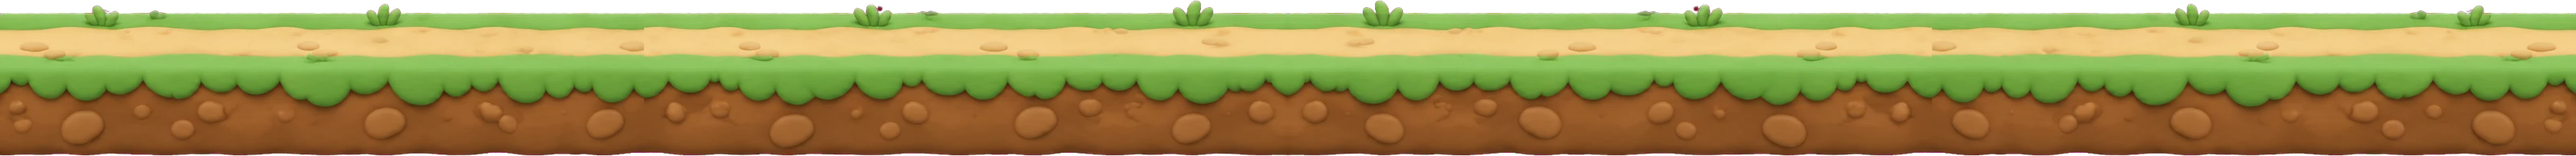
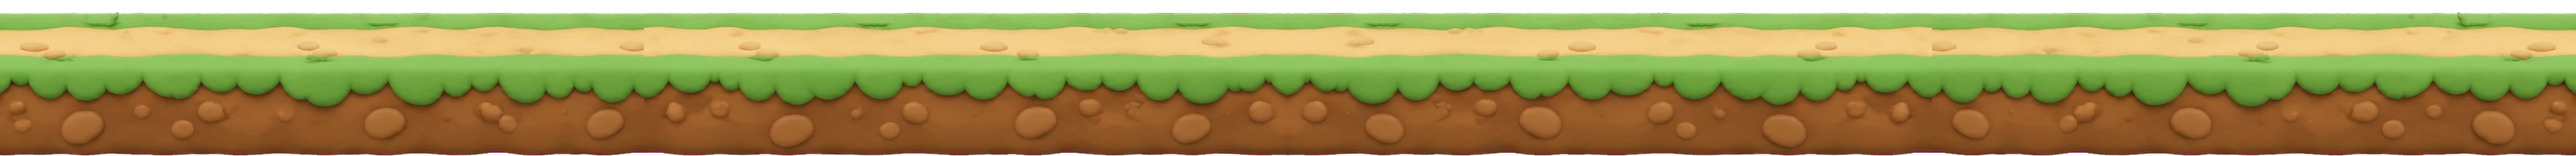
Mejora del valle 0.29.5

diff --git a/src/world.js b/src/world.js
@@ -1,4 +1,4 @@
-// El Valle de Eko (fase 1): su casa por fuera, el camino, el cielo real y la niebla de lo que aún no está abierto.
+// El Valle de Eko: su casa por fuera, el camino, el huerto, el cielo real y la niebla de lo que aún no está abierto.
 // Vista lateral a pantalla completa. Haces clic y Eko va; él comenta el paisaje. Esc o «Volver a casa» para salir.
 (() => {
   "use strict";
@@ -16,9 +16,9 @@
   let W = innerWidth, H = innerHeight, k = H / 1080;
   const G = () => 300 * k;                                  // alto del suelo
   const groundTop = () => H - G();
-  const PATH = () => groundTop() + G() * 0.25;              // donde pisa Eko (el camino de tierra)
-  const BACK = () => groundTop() + G() * 0.12;              // base de lo que está detrás del camino
-  const FRONT = () => groundTop() + G() * 0.52;             // base de lo que está delante
+  const PATH = () => groundTop() + G() * 0.27;              // donde pisa Eko (el camino de tierra)
+  const BACK = () => groundTop() + G() * 0.14;              // base de lo que está detrás del camino
+  const FRONT = () => groundTop() + G() * 0.42;             // base de lo que está delante
   const OPEN = { x0: 140, x1: 2050 };                       // zona abierta en la fase 1 (en «unidades de 1080p»)
   const WORLD = 2600;
   const U = (u) => u * k;                                   // unidades → px
@@ -59,7 +59,7 @@
     (layer === "front" ? front : back).appendChild(el);
     const p = { el, src, ux, uh, ar: o.ar || 1, base, o };
     props.push(p);
-    if (o.click) el.addEventListener("click", (e) => { e.stopPropagation(); o.click(p); });
+    if (o.click) el.addEventListener("click", (e) => { e.stopPropagation(); o.click(p, e); });
     return p;
   }
   // casa (1102×971); la puerta está un 18 % a la izquierda del centro
@@ -69,13 +69,97 @@
   for (const [gx, gy, gs] of GLOWS) { const g = document.createElement("div"); g.className = "glow"; g.dataset.g = [gx, gy, gs]; house.el.appendChild(g); }
   prop("tree.webp", 280, 360, "back", "back", { ar: 736 / 800, sway: true, click: () => goTo(330, () => say(pick(["Este árbol es mi favorito", "Aquí da una sombrita estupenda", "Algún día le pondré un columpio"]))) });
   prop("bush.webp", 560, 120, "back", "back", { ar: 786 / 710, click: () => goTo(560, () => say(pick(["¡Qué florecitas!", "Huele a primavera", "Las flores lilas son las mejores"]))) });
-  prop("fence.webp", 1300, 90, "back", "back", { ar: 900 / 338 });
-  prop("bush.webp", 1560, 100, "back", "back", { ar: 786 / 710 });
-  prop("tree.webp", 1820, 400, "back", "back", { ar: 736 / 800, sway: true, click: () => goTo(1780, () => say(pick(["Desde aquí se ve todo el valle", "Este árbol es muy viejo… y muy sabio"]))) });
-  const lamps = [prop("lamp.webp", 420, 260, "front", "front", { ar: 162 / 800 }), prop("lamp.webp", 1460, 260, "front", "front", { ar: 162 / 800 })];
+  prop("fence.webp", 1260, 90, "back", "back", { ar: 900 / 338 });
+  prop("tree.webp", 1910, 400, "back", "back", { ar: 736 / 800, sway: true, click: () => goTo(1860, () => say(pick(["Desde aquí se ve todo el valle", "Este árbol es muy viejo… y muy sabio"]))) });
+  const lamps = [prop("lamp.webp", 420, 260, "front", "front", { ar: 162 / 800 }), prop("lamp.webp", 1430, 260, "front", "front", { ar: 162 / 800 })];
   for (const l of lamps) { const g = document.createElement("div"); g.className = "glow"; g.dataset.g = [0.54, 0.17, 120]; l.el.appendChild(g); l.el.addEventListener("click", (e) => { e.stopPropagation(); goTo(l.ux + 40, () => say(phase() === "night" ? "De noche se encienden solas" : "Por la noche esto brilla muchísimo")); }); }
   const sign = prop("sign.webp", 1180, 240, "front", "front", { ar: 379 / 700, click: () => goTo(1140, () => say(`«El Valle de ${name}». ¡Bienvenido a mi valle!`)) });
   const st = document.createElement("div"); st.id = "signText"; st.textContent = `El Valle\nde ${name}`; st.style.whiteSpace = "pre"; sign.el.appendChild(st);
+
+  // ---------- Huerto (fase 2): plantar, regar y cosechar en tiempo real ----------
+  const testMode = (() => { try { return !!JSON.parse(localStorage.getItem("eko-settings") || "{}").testAll; } catch (_) { return false; } })();
+  const GROW = testMode ? 20e3 : 3 * 3600e3;                 // tiempo mínimo entre fases (regada)
+  let GD = { slots: [null, null, null], hv: { carrot: 0, tomato: 0 } };
+  try { GD = Object.assign(GD, JSON.parse(localStorage.getItem("eko-garden") || "{}")); } catch (_) {}
+  const gSave = () => { try { localStorage.setItem("eko-garden", JSON.stringify(GD)); } catch (_) {} };
+  const BED = { ux: 1640, uh: 66, ar: 1000 / 202 };
+  const bed = prop("g-bed.webp", BED.ux, BED.uh, "back", "back", { ar: BED.ar, click: (p, e) => slotAt(e) });
+  const can = prop("g-can.webp", 1690, 58, "front", "front", { ar: 500 / 265, click: () => waterNext() });
+  prop("g-seeds.webp", 1770, 82, "front", "front", { ar: 436 / 500, click: () => plantNext() });
+  const SX = [0.2, 0.5, 0.8];                                 // huecos del bancal (fracción del ancho)
+  const ART = { 0: ["g-sprout.webp", 347 / 400, 70], 1: ["g-young.webp", 500 / 475, 100], carrot: ["g-carrotplant.webp", 461 / 500, 125], tomato: ["g-tomato.webp", 447 / 600, 170] };
+  const plants = SX.map((fx, i) => { const d = document.createElement("div"); d.className = "plant"; d.innerHTML = `<img alt="" draggable="false"><b class="thirst"></b>`; d.addEventListener("click", (e) => { e.stopPropagation(); act(i); }); back.appendChild(d); return d; });
+  const slotX = (i) => BED.ux + (SX[i] - 0.5) * BED.uh * BED.ar;
+  const stage = (s) => (s.st >= 2 ? s.c : s.st);
+  const thirsty = (s) => s.st < 2 && !(s.wet > s.since);
+  function grow() {
+    const now = Date.now(); let ch = false;
+    for (const s of GD.slots) if (s && s.st < 2 && s.wet > s.since && now - s.since >= GROW) { s.st++; s.since = now; ch = true; }
+    if (ch) gSave();
+    drawPlants();
+  }
+  function drawPlants() {
+    plants.forEach((d, i) => {
+      const s = GD.slots[i]; d.style.display = s ? "" : "none"; if (!s) return;
+      const [src, ar, uh] = ART[stage(s)], img = d.firstChild;
+      if (!img.src.endsWith(src)) img.src = "art/valley/" + src;
+      d.dataset.ar = ar; d.dataset.uh = uh; d.classList.toggle("dry", thirsty(s));
+    });
+    gLayout();
+  }
+  function gLayout() {
+    const bh = U(BED.uh), top = BACK() - bh, base = top + bh * 0.42;
+    plants.forEach((d, i) => { if (!d.dataset.uh) return; const h = U(+d.dataset.uh), w = h * +d.dataset.ar; Object.assign(d.style, { left: U(slotX(i)) - w / 2 + "px", top: base - h + "px", width: w + "px", height: h + "px" }); });
+    bed.el.style.zIndex = 6;
+  }
+  function slotAt(e) { const r = bed.el.getBoundingClientRect(); const f = (e.clientX - r.left) / r.width; act(f < 0.35 ? 0 : f < 0.65 ? 1 : 2); }
+  // efectos
+  function fx(cls, x, y, n, life) {
+    for (let j = 0; j < n; j++) { const d = document.createElement("i"); d.className = cls; Object.assign(d.style, { left: x + (Math.random() - 0.5) * U(50) + "px", top: y + "px", animationDelay: j * (life / n) + "ms", "--dx": (Math.random() - 0.5) * U(80) + "px" }); front.appendChild(d); setTimeout(() => d.remove(), life + 1200); }
+  }
+  function floatText(t, x, y) { const d = document.createElement("div"); d.className = "gtext"; d.textContent = t; Object.assign(d.style, { left: x + "px", top: y + "px", fontSize: U(26) + "px" }); front.appendChild(d); setTimeout(() => d.remove(), 1900); }
+  let gBusy = false;
+  function work(pose, ms, done) { gBusy = true; E.pose = pose; E.poseT = E.t; setTimeout(() => { E.pose = null; gBusy = false; done && done(); }, ms); }
+  const GL = {
+    plant: ["¡A plantar!", "Una semillita aquí…", "Crece fuerte, ¿eh?", "Tapadita con tierra"],
+    planted: ["¡Listo! Ahora hay que regarla", "Ya está plantada. Le falta agua", "Hecho. ¿Me pasas la regadera?"],
+    water: ["¡Agüita!", "Glu, glu, glu…", "Que no le falte de nada", "Riego, riego…"],
+    wait: ["Aún está creciendo, hay que tener paciencia", "Todavía le falta un poco", "Ya está regada. Ahora, a esperar", "Crece despacito, como todo lo bueno"],
+    carrot: ["¡Una zanahoria enorme!", "¡Mira qué zanahoria!", "¡Zanahoria recién sacada!"],
+    tomato: ["¡Tomates rojitos!", "¡Qué tomates más buenos!", "¡Cosecha de tomates!"],
+    full: ["El bancal ya está lleno", "No queda sitio para más semillas"],
+    nodry: ["Ahora mismo nada necesita agua", "Todo está regado"],
+  };
+  function act(i) {
+    if (gBusy || E.exiting) return;
+    goTo(slotX(i) - 90, () => {
+      E.face = 1;
+      const s = GD.slots[i], bx = U(slotX(i)), by = BACK() - U(BED.uh) * 0.5;
+      if (!s) {
+        say(pick(GL.plant), 1500);
+        work("dig", 1500, () => { const c = (GD.hv.carrot || 0) <= (GD.hv.tomato || 0) ? (Math.random() < 0.65 ? "carrot" : "tomato") : (Math.random() < 0.65 ? "tomato" : "carrot"); GD.slots[i] = { c, st: 0, since: Date.now(), wet: 0 }; gSave(); drawPlants(); plants[i].classList.add("pop"); setTimeout(() => plants[i].classList.remove("pop"), 600); fx("dirt", bx, by, 8, 300); say(pick(GL.planted), 2200); });
+        fx("dirt", bx, by, 10, 1200);
+      } else if (thirsty(s)) {
+        say(pick(GL.water), 1800);
+        can.el.classList.add("held"); work("water", 1900, () => { can.el.classList.remove("held"); can.el.style.transform = ""; layout(); s.wet = Date.now(); gSave(); drawPlants(); say(pick(GL.wait), 2200); });
+        setTimeout(() => fx("drop", bx, by - U(110), 14, 1200), 400);
+      } else if (s.st < 2) {
+        const left = Math.max(0, GROW - (Date.now() - s.since)), hrs = Math.ceil(left / 3600e3);
+        say(left > 0 && !testMode ? `${pick(GL.wait)} (unas ${hrs} h)` : pick(GL.wait), 2600);
+      } else {
+        work("dig", 1100, () => {
+          GD.hv[s.c] = (GD.hv[s.c] || 0) + (s.c === "tomato" ? 3 : 1);
+          if (s.c === "carrot") { GD.slots[i] = null; const im = document.createElement("img"); im.src = "art/valley/g-carrot.webp"; im.className = "pull"; Object.assign(im.style, { left: bx - U(60) + "px", top: by - U(60) + "px", width: U(120) + "px" }); front.appendChild(im); setTimeout(() => im.remove(), 1800); }
+          else { s.st = 1; s.since = Date.now(); s.wet = 0; floatText("+3 tomates", bx, by - U(150)); }
+          gSave(); drawPlants(); fx("dirt", bx, by, 8, 300);
+          say(pick(GL[s.c]) + (GD.hv[s.c] > 1 ? ` Ya llevamos ${GD.hv[s.c]}.` : ""), 2600);
+        });
+      }
+    });
+  }
+  function plantNext() { const i = GD.slots.findIndex((s) => !s); if (i < 0) { goTo(1740, () => say(pick(GL.full))); return; } act(i); }
+  function waterNext() { const i = GD.slots.findIndex((s) => s && thirsty(s)); if (i < 0) { goTo(1650, () => say(pick(GL.nodry))); return; } act(i); }
+  function gardenTalk() { const n = GD.slots.filter((s) => s && thirsty(s)).length, r = GD.slots.filter((s) => s && s.st >= 2).length; return r ? "¡Hay cosas listas para cosechar en el huerto!" : n ? "Las plantas del huerto tienen sed" : GD.slots.every((s) => !s) ? "¿Plantamos algo en el huerto?" : ""; }
   // niebla: lo que todavía no se puede visitar
   const fogR = document.createElement("div"); fogR.id = "fogR"; back.parentNode.appendChild(fogR);
   const fogL = document.createElement("div"); fogL.id = "fogL"; back.parentNode.appendChild(fogL);
@@ -99,6 +183,7 @@
     Object.assign(fogL.style, { left: U(-400) + "px", width: U(OPEN.x0 + 380) + "px", zIndex: 40 });
     fogR.querySelectorAll(".mist").forEach((m, i) => Object.assign(m.style, { left: U(160 + (i % 3) * 110) + "px", top: H * (0.35 + 0.1 * i) + "px", width: U(360) + "px", height: U(200) + "px" }));
     void sb;
+    gLayout();
     placeEko();
   }
 
@@ -107,8 +192,9 @@
   const eko = document.createElement("div"); eko.id = "eko"; eko.dataset.eyes = "open"; eko.dataset.brows = "none"; eko.dataset.mood = "normal";
   const svg = tpl.querySelector("svg"); eko.appendChild(svg); tpl.remove(); box.appendChild(eko);
   const bub = document.createElement("div"); bub.id = "bub"; box.appendChild(bub);
+  const shd = document.createElement("div"); shd.id = "ekoShadow"; box.appendChild(shd);
   const el = { pet: svg.querySelector("#pet"), legL: svg.querySelector("#legL"), legR: svg.querySelector("#legR"), armL: svg.querySelector("#armL"), armR: svg.querySelector("#armR"), head: svg.querySelector("#head"), upper: svg.querySelector("#upper") };
-  const E = { x: 900 - 470 * 489 / 354 * 0.14, tx: null, then: null, v: 0, ph: 0, t: 0, face: 1, blinkAt: 2, entering: 0, exiting: 0, talkUntil: 0, wave: 0 };
+  const E = { x: 900 - 560 * 1102 / 971 * 0.18, tx: null, then: null, v: 0, ph: 0, t: 0, face: 1, blinkAt: 2, entering: 0, exiting: 0, talkUntil: 0, wave: 0 };
   const EH = () => U(160);                                   // alto de Eko en el valle
   function placeEko() {
     const h = EH(), w = h * 240 / 310;
@@ -135,7 +221,7 @@
     setTimeout(() => $("#cover").classList.remove("off"), 900);
     setTimeout(() => emit("world-exit"), 2100);
   }
-  $("#back").addEventListener("click", (e) => { e.stopPropagation(); goTo(house.ux - 470 * 489 / 354 * 0.14, () => enterHouse()); });
+  $("#back").addEventListener("click", (e) => { e.stopPropagation(); goTo(house.ux - 560 * 1102 / 971 * 0.18, () => enterHouse()); });
   addEventListener("keydown", (e) => { if (e.key === "Escape") { E.tx = null; enterHouse(); } });
   addEventListener("resize", layout);
 
@@ -158,15 +244,19 @@
     if (E.exiting) { const q = clamp((E.t - E.exiting) / 1.1, 0, 1); y = lerp(PATH(), BACK() - U(6), q); sc = lerp(1, 0.82, q); op = 1 - clamp((q - 0.6) / 0.4, 0, 1); }
     const bob = walking ? Math.abs(Math.sin(E.ph)) * U(6) : Math.sin(E.t * 2) * U(1.5);
     Object.assign(eko.style, { left: U(E.x) - (w * sc) / 2 + "px", top: y - h * sc - bob + "px", transform: `scale(${sc})`, transformOrigin: "50% 100%", opacity: op, zIndex: 20 });
+    Object.assign(shd.style, { left: U(E.x) - w * 0.42 + "px", top: y - U(9) + "px", width: w * 0.84 + "px", height: U(18) + "px", opacity: op * (1 - bob / U(12)) });
     Object.assign(bub.style, { left: U(E.x) + "px", top: y - h * sc - U(14) + "px", zIndex: 45 });
     // cuerpo: patas, brazos, cabeza, parpadeo
     const s = Math.sin(E.ph), wav = E.t - E.wave < 1.4 ? Math.sin((E.t - E.wave) * 14) : 0;
     el.legL.setAttribute("transform", `rotate(${(walking ? s * 22 : 0).toFixed(1)} -21 122)`);
     el.legR.setAttribute("transform", `rotate(${(walking ? -s * 22 : 0).toFixed(1)} 21 122)`);
     el.armL.setAttribute("transform", `rotate(${(walking ? -s * 18 : 4 + Math.sin(E.t * 2) * 2).toFixed(1)} -50 58)`);
-    el.armR.setAttribute("transform", `rotate(${(wav ? -120 + wav * 18 : walking ? -s * 18 : -4 - Math.sin(E.t * 2) * 2).toFixed(1)} 50 58)`);
+    const pz = E.pose && !walking ? E.pose : null, pq = E.t - (E.poseT || 0);
+    if (pz === "dig") { el.armL.setAttribute("transform", `rotate(${(-30 + Math.sin(pq * 14) * 25).toFixed(1)} -50 58)`); }
+    el.armR.setAttribute("transform", `rotate(${(pz === "dig" ? 30 - Math.sin(pq * 14) * 25 : pz === "water" ? -80 : wav ? -120 + wav * 18 : walking ? -s * 18 : -4 - Math.sin(E.t * 2) * 2).toFixed(1)} 50 58)`);
+    if (can.el.classList.contains("held")) { const cw = U(58) * 500 / 265; Object.assign(can.el.style, { left: U(E.x) + w * 0.35 + "px", top: y - h * 0.62 + "px", width: cw + "px", height: U(58) + "px", transform: `rotate(${(pq < 0.4 ? pq * 75 : 30).toFixed(0)}deg)`, zIndex: 31 }); }
     el.head.setAttribute("transform", `translate(${(E.face * (walking ? 4 : 0)).toFixed(1)} 0) rotate(${(walking ? E.face * 3 : Math.sin(E.t * 0.7) * 2).toFixed(1)} 0 40)`);
-    el.pet.setAttribute("transform", `rotate(${(walking ? E.face * 4 : 0).toFixed(1)} 0 176)`);
+    el.pet.setAttribute("transform", pz === "dig" ? `translate(0 ${(8 + Math.sin(pq * 14) * 3).toFixed(1)}) rotate(${(E.face * 10).toFixed(1)} 0 176)` : `rotate(${(walking ? E.face * 4 : 0).toFixed(1)} 0 176)`);
     if (E.t > E.blinkAt) { eko.dataset.eyes = "closed"; if (E.t > E.blinkAt + 0.13) { eko.dataset.eyes = E.t < E.talkUntil ? "happy" : "open"; E.blinkAt = E.t + 2 + Math.random() * 4; } }
     // cámara: sigue a Eko con suavidad
     const want = clamp(U(E.x) - W / 2, U(OPEN.x0 - 300), U(WORLD) - W);
@@ -181,14 +271,15 @@
 
   // Comentarios sueltos mientras paseáis
   setInterval(() => {
-    if (E.t < E.talkUntil + 6 || E.exiting || Math.random() < 0.5) return;
+    if (E.t < E.talkUntil + 6 || E.exiting || gBusy || Math.random() < 0.5) return;
+    const gt = gardenTalk(); if (gt && Math.random() < 0.4) { say(gt, 2800); return; }
     const p = phase();
     say(pick(p === "night" ? ["Mira cuántas estrellas", "Qué tranquilo está el valle de noche", "Los farolillos de casa son mi parte favorita"] : p === "dusk" ? ["Qué atardecer más bonito", "El cielo se está poniendo naranja"] : sky.w === "snow" ? ["¡Está nevando!", "Brrr… qué frío"] : sky.w === "leaves" ? ["Me encanta el ruido de las hojas", "Ya es otoño en el valle"] : ["Qué buen día hace", "Me encanta pasear contigo", "¿Oyes los pájaros?", "Huele a hierba recién cortada"]), 2800);
   }, 9000);
 
   // ---------- Arranque ----------
   $("#title").textContent = `El Valle de ${name}`;
-  layout(); sky(); setInterval(sky, 60000);
+  layout(); sky(); setInterval(sky, 60000); grow(); setInterval(grow, testMode ? 2000 : 30000);
   cam = clamp(U(E.x) - W / 2, U(OPEN.x0 - 300), U(WORLD) - W);
   E.entering = 0.001;
   requestAnimationFrame((t) => { last = t; frame(t); });

diff --git a/tools/world.tpl.html b/tools/world.tpl.html
@@ -1,0 +1,64 @@
+<!doctype html>
+<html><head><meta charset="utf-8"><title>El Valle de Eko</title>
+<link rel="stylesheet" href="style.css" />
+<style>
+html,body{margin:0;width:100%;height:100%;overflow:hidden;background:#9CC9EE;user-select:none;font:13px "Segoe UI",system-ui,sans-serif}
+*{scrollbar-width:none}*::-webkit-scrollbar{display:none}
+#sky{position:fixed;inset:0;transition:background 3s}
+#sun{position:fixed;width:110px;height:110px;background:center/contain no-repeat;transition:left 3s,top 3s,filter 3s;animation:spin 120s linear infinite}
+@keyframes spin{to{rotate:360deg}}
+body.night #sun{animation:none}
+#stars i{position:fixed;width:2px;height:2px;border-radius:50%;background:#FFF4E8;opacity:0;transition:opacity 3s}
+.night #stars i{opacity:.85}
+.cloud{position:fixed;opacity:.92;pointer-events:none;filter:drop-shadow(0 6px 8px rgba(150,175,205,.3))}
+.layer{position:fixed;left:0;right:0;bottom:0;background-repeat:repeat-x;background-size:auto 100%;pointer-events:none}
+#world{position:fixed;left:0;bottom:0;height:100%;will-change:transform}
+.prop{position:absolute;pointer-events:auto;cursor:pointer;transform-origin:50% 100%}
+.prop img{width:100%;height:100%;display:block;pointer-events:none}
+.prop.sway{animation:sway 6s ease-in-out infinite}
+@keyframes sway{50%{transform:rotate(1.2deg)}}
+.glow{position:absolute;border-radius:50%;pointer-events:none;background:radial-gradient(closest-side,rgba(255,214,140,.85),rgba(255,200,120,.25) 50%,transparent);opacity:0;transition:opacity 2s}
+.lit .glow{opacity:1}
+#eko{position:absolute;pointer-events:auto;cursor:pointer}
+#eko #mochi{position:absolute;left:0;bottom:0;overflow:visible}
+#bub{position:absolute;transform:translate(-50%,-100%);background:#fffaf6;color:#3b2f2a;padding:8px 13px;border-radius:15px;box-shadow:0 4px 14px rgba(50,30,20,.25);font-size:15px;max-width:300px;text-align:center;opacity:0;transition:opacity .25s;pointer-events:none;white-space:normal}
+#bub.on{opacity:1}
+#bub::after{content:"";position:absolute;left:50%;bottom:-7px;width:14px;height:14px;margin-left:-7px;background:#fffaf6;transform:rotate(45deg);border-radius:0 0 4px 0}
+#fogR,#fogL{position:absolute;bottom:0;height:100%;pointer-events:none}
+#fogR{background:linear-gradient(90deg,rgba(255,255,255,0),rgba(250,248,244,.92) 35%,#f7f4ef 60%)}
+#fogL{background:linear-gradient(270deg,rgba(255,255,255,0),rgba(250,248,244,.92) 35%,#f7f4ef 60%)}
+.mist{position:absolute;border-radius:50%;background:radial-gradient(closest-side,rgba(255,255,255,.9),transparent);animation:mist 9s ease-in-out infinite;pointer-events:none}
+@keyframes mist{50%{transform:translateX(-40px) scale(1.1)}}
+#signText{position:absolute;text-align:center;font:700 22px "Segoe Print","Comic Sans MS",cursive;color:#6b4a33;pointer-events:none;line-height:1.1}
+#back{position:fixed;left:18px;top:16px;z-index:50;border:none;border-radius:18px;padding:9px 16px;background:#fffaf6;color:#5a463d;font:700 14px "Segoe UI",system-ui,sans-serif;box-shadow:0 4px 14px rgba(50,30,20,.25);cursor:pointer}
+#title{position:fixed;left:50%;top:18px;transform:translateX(-50%);z-index:50;font:700 20px "Segoe Print","Comic Sans MS",cursive;color:#fff;text-shadow:0 2px 6px rgba(40,30,60,.35);opacity:0;transition:opacity 1.2s;pointer-events:none}
+#title.on{opacity:1}
+#cover{position:fixed;inset:0;z-index:80;pointer-events:none;background:#fff;opacity:1;transition:opacity 1.2s}
+#cover.off{opacity:0}
+.flake{position:fixed;top:-10px;width:6px;height:6px;border-radius:50%;background:#fff;opacity:.9;pointer-events:none;animation:fall linear infinite}
+.flake.leaf{width:9px;height:6px;border-radius:3px}
+@keyframes fall{to{transform:translate(60px,110vh) rotate(300deg)}}
+.plant{position:absolute;z-index:5;pointer-events:auto;cursor:pointer;transform-origin:50% 100%}
+.plant img{width:100%;height:100%;display:block;pointer-events:none}
+.plant.pop{animation:pop .5s cubic-bezier(.3,1.6,.5,1)}@keyframes pop{from{transform:scale(.2)}}
+.plant .thirst{position:absolute;left:50%;top:-14px;width:10px;height:13px;margin-left:-5px;background:#7FB3E0;border-radius:50% 50% 50% 50%/60% 60% 40% 40%;clip-path:polygon(50% 0,100% 60%,85% 95%,15% 95%,0 60%);opacity:0;transition:opacity .4s}
+.plant.dry .thirst{opacity:.9;animation:bob 1.6s ease-in-out infinite}@keyframes bob{50%{transform:translateY(-5px)}}
+.prop.held{transition:none}
+.drop{position:absolute;width:5px;height:9px;border-radius:50%;background:#8EC5F0;opacity:0;animation:drip .7s ease-in forwards}@keyframes drip{from{opacity:.95}to{transform:translateY(90px);opacity:0}}
+.dirt{position:absolute;width:7px;height:7px;border-radius:50%;background:#7A4E2E;opacity:0;animation:dirt .6s ease-out forwards}@keyframes dirt{0%{opacity:1}100%{transform:translate(var(--dx),-40px);opacity:0}}
+.pull{position:absolute;z-index:35;pointer-events:none;animation:pull 1.8s ease-out forwards}@keyframes pull{0%{transform:translateY(20px) scale(.6) rotate(-20deg)}30%{transform:translateY(-70px) scale(1) rotate(10deg)}70%{transform:translateY(-80px) scale(1) rotate(0)}100%{transform:translateY(-110px) scale(.9);opacity:0}}
+.gtext{position:absolute;z-index:35;transform:translateX(-50%);font:700 26px "Segoe Print","Comic Sans MS",cursive;color:#fff;text-shadow:0 2px 6px rgba(120,30,20,.5);pointer-events:none;animation:up 1.9s ease-out forwards}@keyframes up{to{transform:translate(-50%,-60px);opacity:0}}
+.prop::before{content:"";position:absolute;left:8%;right:8%;bottom:-4px;height:14px;border-radius:50%;background:radial-gradient(closest-side,rgba(45,60,25,.38),rgba(45,60,25,0));z-index:-1;pointer-events:none}
+.prop.held::before{display:none}
+#ekoShadow{position:absolute;z-index:19;border-radius:50%;background:radial-gradient(closest-side,rgba(45,60,25,.35),rgba(45,60,25,0));pointer-events:none}
+</style></head><body>
+<div id="sky"></div><div id="sun"></div><div id="stars"></div><div id="clouds"></div>
+<div class="layer" id="far"></div><div class="layer" id="mid"></div>
+<div class="layer" id="ground"></div>
+<div id="world"><div id="backL"></div><div id="ekoBox"></div><div id="frontL"></div></div>
+<button id="back">← Volver a casa</button><div id="title"></div><div id="cover"></div>
+<div id="ekoTpl" style="display:none">
+<!--SVG-->
+</div>
+<script src="world.js"></script>
+</body></html>

diff --git a/src/world.html b/src/world.html
@@ -38,6 +38,19 @@ body.night #sun{animation:none}
 .flake{position:fixed;top:-10px;width:6px;height:6px;border-radius:50%;background:#fff;opacity:.9;pointer-events:none;animation:fall linear infinite}
 .flake.leaf{width:9px;height:6px;border-radius:3px}
 @keyframes fall{to{transform:translate(60px,110vh) rotate(300deg)}}
+.plant{position:absolute;z-index:5;pointer-events:auto;cursor:pointer;transform-origin:50% 100%}
+.plant img{width:100%;height:100%;display:block;pointer-events:none}
+.plant.pop{animation:pop .5s cubic-bezier(.3,1.6,.5,1)}@keyframes pop{from{transform:scale(.2)}}
+.plant .thirst{position:absolute;left:50%;top:-14px;width:10px;height:13px;margin-left:-5px;background:#7FB3E0;border-radius:50% 50% 50% 50%/60% 60% 40% 40%;clip-path:polygon(50% 0,100% 60%,85% 95%,15% 95%,0 60%);opacity:0;transition:opacity .4s}
+.plant.dry .thirst{opacity:.9;animation:bob 1.6s ease-in-out infinite}@keyframes bob{50%{transform:translateY(-5px)}}
+.prop.held{transition:none}
+.drop{position:absolute;width:5px;height:9px;border-radius:50%;background:#8EC5F0;opacity:0;animation:drip .7s ease-in forwards}@keyframes drip{from{opacity:.95}to{transform:translateY(90px);opacity:0}}
+.dirt{position:absolute;width:7px;height:7px;border-radius:50%;background:#7A4E2E;opacity:0;animation:dirt .6s ease-out forwards}@keyframes dirt{0%{opacity:1}100%{transform:translate(var(--dx),-40px);opacity:0}}
+.pull{position:absolute;z-index:35;pointer-events:none;animation:pull 1.8s ease-out forwards}@keyframes pull{0%{transform:translateY(20px) scale(.6) rotate(-20deg)}30%{transform:translateY(-70px) scale(1) rotate(10deg)}70%{transform:translateY(-80px) scale(1) rotate(0)}100%{transform:translateY(-110px) scale(.9);opacity:0}}
+.gtext{position:absolute;z-index:35;transform:translateX(-50%);font:700 26px "Segoe Print","Comic Sans MS",cursive;color:#fff;text-shadow:0 2px 6px rgba(120,30,20,.5);pointer-events:none;animation:up 1.9s ease-out forwards}@keyframes up{to{transform:translate(-50%,-60px);opacity:0}}
+.prop::before{content:"";position:absolute;left:8%;right:8%;bottom:-4px;height:14px;border-radius:50%;background:radial-gradient(closest-side,rgba(45,60,25,.38),rgba(45,60,25,0));z-index:-1;pointer-events:none}
+.prop.held::before{display:none}
+#ekoShadow{position:absolute;z-index:19;border-radius:50%;background:radial-gradient(closest-side,rgba(45,60,25,.35),rgba(45,60,25,0));pointer-events:none}
 </style></head><body>
 <div id="sky"></div><div id="sun"></div><div id="stars"></div><div id="clouds"></div>
 <div class="layer" id="far"></div><div class="layer" id="mid"></div>

diff --git a/src/news.js b/src/news.js
@@ -5,6 +5,7 @@ window.EkoNews = (() => {
   const E = window.Eko;
   if (!E) return null;
   const NOTES = {
+    "0.29.3": { important: true, lines: ["¡Ya tenemos huerto en el valle! Toca el bancal para plantar, la regadera para regar y las plantas para cosechar", "Las plantas crecen de verdad con el tiempo… si no se te olvida regarlas"] },
     "0.29.0": { important: true, lines: ["¡Ya puedes visitar mi valle! Entra en Mi casa y pulsa «Ir al Valle»", "Por ahora solo se puede ver mi casa por fuera y el camino… ¡pero más allá de la niebla hay más cosas esperando!"] },
     "0.28.0": { important: true, lines: ["¡Ahora puedes decorar mi casa! Mover los muebles, cambiarles el color y pintar las paredes", "Está en Mi casa → Decorar. Y en «Mis cosas» eliges qué cuadros cuelgo"] },
     "0.27.0": { important: true, lines: ["¡Me han llegado cosas para mi casa! Alfombra, cortinas y una lamparita que se enciende de noche"] },
